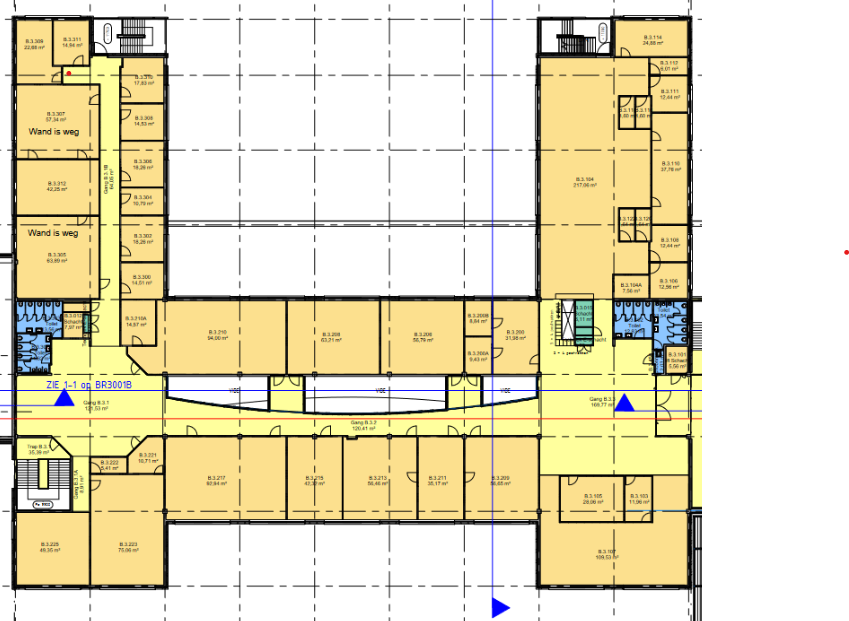
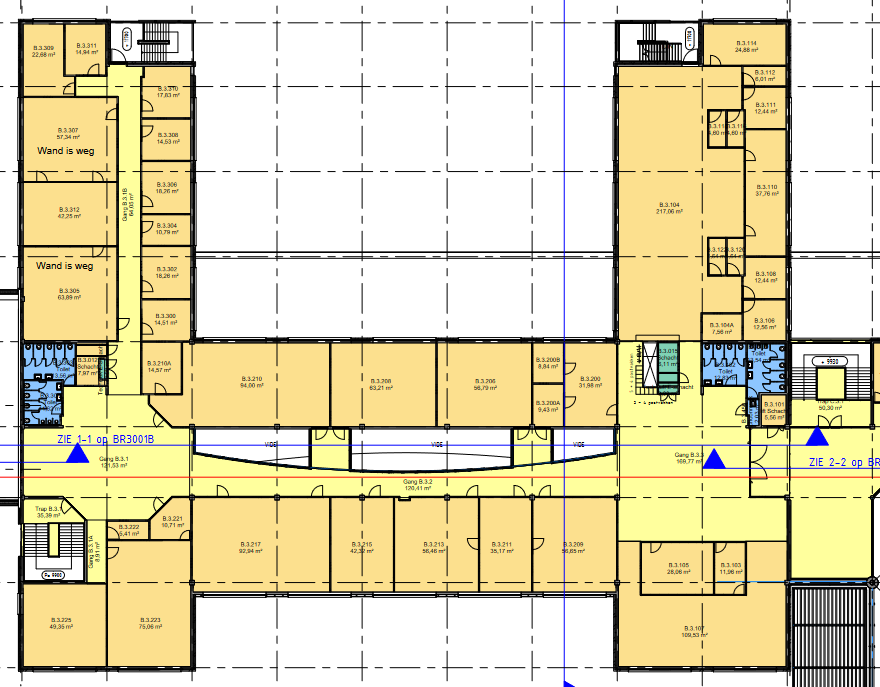
Added second floor

diff --git a/EventPlannerMAUI/MVVM/View/HomeNavigationPage.xaml b/EventPlannerMAUI/MVVM/View/HomeNavigationPage.xaml
@@ -1,11 +1,18 @@
 <?xml version="1.0" encoding="utf-8" ?>
 <ContentPage xmlns="http://schemas.microsoft.com/dotnet/2021/maui"
              xmlns:x="http://schemas.microsoft.com/winfx/2009/xaml"
-             x:Class="EventPlannerMAUI.MVVM.View.HomeNavigationPage">
+             x:Class="EventPlannerMAUI.MVVM.View.HomeNavigationPage"
+             Title="Home Page"
+             Shell.BackgroundColor="#ED1B34"
+             Shell.ForegroundColor="White"
+             Shell.TitleColor="White"
+             BackgroundColor="#D6CCC9"
+             NavigationPage.HasBackButton="False" >
 
     <StackLayout>
         <!-- Knop voor het toevoegen van een evenement -->
         <Button Text="Voeg evenement toe" Clicked="OnAddEventClicked" />
+        <Button Text="Show Map" Clicked="ShowMap" />
 
         <!-- Lijst met evenementen -->
         <ListView x:Name="eventListView" HasUnevenRows="True">

diff --git a/EventPlannerMAUI/MVVM/View/EventDetailMap.xaml b/EventPlannerMAUI/MVVM/View/EventDetailMap.xaml
@@ -16,6 +16,14 @@
     <VerticalStackLayout
         VerticalOptions="FillAndExpand" >
 
+        <GraphicsView 
+            x:Name="MapView"
+            HorizontalOptions="StartAndExpand"
+            WidthRequest="200"
+            HeightRequest="300"
+            Drawable="{StaticResource MyDrawable}" 
+            Scale="0.85"/>
+
         <StackLayout
             Orientation="Horizontal">
 
@@ -36,11 +44,6 @@
         <Button 
             Text="Calculate path..." 
             Clicked="OnRefresh" />
-
-        <GraphicsView 
-            x:Name="MapView"
-            HorizontalOptions="Fill"
-            Drawable="{StaticResource MyDrawable}" />
 
     </VerticalStackLayout>
     

diff --git a/EventPlannerMAUI/App.xaml b/EventPlannerMAUI/App.xaml
@@ -9,7 +9,6 @@
             <ResourceDictionary.MergedDictionaries>
                 <ResourceDictionary x:Name="appColors" Source="Resources/Styles/Colors.xaml" />
                 <ResourceDictionary x:Name="appStyles" Source="Resources/Styles/Styles.xaml" />
-
                 <material:StyleResource ColorsOverride="{x:Reference appColors}" BasedOn="{x:Reference appStyles}"/>
             </ResourceDictionary.MergedDictionaries>
         </ResourceDictionary>

diff --git a/EventPlannerMAUI/Drawables/MapPath.cs b/EventPlannerMAUI/Drawables/MapPath.cs
@@ -67,9 +67,10 @@ namespace EventPlannerMAUI.Drawables
 
         public void Draw(ICanvas canvas, RectF dirtyRect)
         {
-
+            
             Dictionary<string, Node> ComplexPath = new Dictionary<string, Node>();
 
+            // Floor 3
             ComplexPath["B3.309"] = new Node(0, 1.8f, 3.0f, "B3.309");
             ComplexPath["End B3.1B"] = new Node(1, 7.0f, 4.3f, "End B3.1B");
             ComplexPath["Start B3.1B"] = new Node(2, 7.0f, 19.0f, "Start B3.1B");
@@ -95,7 +96,7 @@ namespace EventPlannerMAUI.Drawables
             ComplexPath["B3.300"] = new Node(22, 9.2f, 18.7f, "B3.300");
             ComplexPath["B3.1A"] = new Node(23, 5.0f, 33.0f, "B3.1A");
             ComplexPath["B3.255"] = new Node(24, 3.0f, 37.0f, "B3.255");
-            ComplexPath["B3.223"] = new Node(25, 8.0f, 37.0f, "B3.223");
+            ComplexPath["B3.221"] = new Node(25, 8.0f, 37.0f, "B3.223");
             ComplexPath["B3.105"] = new Node(26, 40.5f, 34.0f, "B3.105");
             ComplexPath["B3.103"] = new Node(27, 43.8f, 34.0f, "B3.103");
             ComplexPath["B3.107"] = new Node(28, 42.0f, 37.8f, "B3.107");
@@ -114,20 +115,73 @@ namespace EventPlannerMAUI.Drawables
             ComplexPath["B3.200"] = new Node(41, 35.2f, 22.5f, "B3.200");
             ComplexPath["B3.200B"] = new Node(42, 32.7f, 21.5f, "B3.200B");
             ComplexPath["B3.200A"] = new Node(43, 32.7f, 23.8f, "B3.200A");
-            // Linker Trap 
-            // Rechter Trap
-            // Linker GevaarUitgang
-            // Rechter GevaarUitgang
+            ComplexPath["C3.1 Hall"] = new Node(44, 50.0f, 27.5f, "C3.1 Hall");
+            ComplexPath["C3.1 Stair"] = new Node(45, 50.0f, 22.5f, "C3.1 Stair");
+            ComplexPath["B3.1 Stair"] = new Node(46, 2.8f, 32.0f, "B3.1 Stair");
+            ComplexPath["B3.1B Exit"] = new Node(47, 7.0f, 2.0f, "B3.1B Exit");
+            ComplexPath["B3.104 Exit"] = new Node(48, 40.3f, 1.5f, "B3.104 Exit");
 
+            // Floor 2
+            ComplexPath["B2.309"] = new Node(49, 1.8f, 43.0f, "B2.309");
+            ComplexPath["End B2.1B"] = new Node(50, 7.0f, 44.3f, "End B2.1B");
+            ComplexPath["Start B2.1B"] = new Node(51, 7.0f, 59.0f, "Start B2.1B");
+            ComplexPath["B2.311"] = new Node(52, 4.2f, 42.5f, "B2.311");
+            ComplexPath["B2.305"] = new Node(53, 3.0f, 59.0f, "B2.305");
+            ComplexPath["B2.1"] = new Node(54, 7.0f, 68.0f, "B2.1");
+            ComplexPath["End B2.2"] = new Node(55, 19.0f, 68.8f, "End B2.2");
+            ComplexPath["Start B2.2"] = new Node(56, 31.6f, 68.8f, "Start B2.2");
+            ComplexPath["B2.3"] = new Node(57, 41.3f, 67.5f, "B2.3");
+            ComplexPath["B2.217"] = new Node(58, 15.0f, 72.5f, "B2.217");
+            ComplexPath["B2.210"] = new Node(59, 15.0f, 62.5f, "B2.210");
+            ComplexPath["B2.208"] = new Node(60, 22.5f, 62.5f, "B2.208");
+            ComplexPath["B2.215"] = new Node(61, 21.3f, 72.5f, "B2.215");
+            ComplexPath["B2.213"] = new Node(62, 25.6f, 72.5f, "B2.213");
+            ComplexPath["B2.206"] = new Node(63, 28.5f, 62.5f, "B2.206");
+            ComplexPath["B2.211"] = new Node(64, 29.8f, 72.5f, "B2.211");
+            ComplexPath["B2.209"] = new Node(65, 34.0f, 72.5f, "B2.209");
+            ComplexPath["B2.310"] = new Node(66, 9.2f, 44.8f, "B2.310");
+            ComplexPath["B2.308"] = new Node(67, 9.2f, 47.8f, "B2.308");
+            ComplexPath["B2.306"] = new Node(68, 9.2f, 50.8f, "B2.306");
+            ComplexPath["B2.304"] = new Node(69, 9.2f, 53.5f, "B2.304");
+            ComplexPath["B2.302"] = new Node(70, 9.2f, 56.0f, "B2.302");
+            ComplexPath["B2.300"] = new Node(71, 9.2f, 58.7f, "B2.300");
+            ComplexPath["B2.1A"] = new Node(72, 5.0f, 73.0f, "B2.1A");
+            ComplexPath["B2.255"] = new Node(73, 3.0f, 77.0f, "B2.255");
+            ComplexPath["B2.221"] = new Node(74, 8.0f, 77.0f, "B2.223");
+            ComplexPath["B2.105"] = new Node(75, 40.5f, 74.0f, "B2.105");
+            ComplexPath["B2.103"] = new Node(76, 43.8f, 74.0f, "B2.103");
+            ComplexPath["B2.107"] = new Node(77, 42.0f, 77.8f, "B2.107");
+            ComplexPath["B2.104"] = new Node(78, 40.3f, 52.5f, "B2.104");
+            ComplexPath["B2.114"] = new Node(79, 44.8f, 42.3f, "B2.114");
+            ComplexPath["B2.112"] = new Node(80, 45.8f, 44.1f, "B2.112");
+            ComplexPath["B2.116"] = new Node(81, 44.2f, 47.1f, "B2.116");
+            ComplexPath["B2.115"] = new Node(82, 42.9f, 47.1f, "B2.115");
+            ComplexPath["B2.110"] = new Node(83, 45.8f, 51.1f, "B2.110");
+            ComplexPath["B2.111"] = new Node(84, 45.8f, 46.2f, "B2.111");
+            ComplexPath["B2.122"] = new Node(85, 42.9f, 55.2f, "B2.122");
+            ComplexPath["B2.120"] = new Node(86, 44.2f, 55.2f, "B2.120");
+            ComplexPath["B2.108"] = new Node(87, 45.8f, 56.1f, "B2.108");
+            ComplexPath["B2.106"] = new Node(88, 45.8f, 59.1f, "B2.106");
+            ComplexPath["B2.104A"] = new Node(89, 43.1f, 59.1f, "B2.104A");
+            ComplexPath["B2.200"] = new Node(90, 35.2f, 62.5f, "B2.200");
+            ComplexPath["B2.200B"] = new Node(91, 32.7f, 61.5f, "B2.200B");
+            ComplexPath["B2.200A"] = new Node(92, 32.7f, 63.8f, "B2.200A");
+            ComplexPath["C2.1 Hall"] = new Node(93, 50.0f, 67.5f, "C2.1 Hall");
+            ComplexPath["C2.1 Stair"] = new Node(94, 50.0f, 62.5f, "C2.1 Stair");
+            ComplexPath["B2.1 Stair"] = new Node(95, 2.8f, 72.0f, "B2.1 Stair");
+            ComplexPath["B2.1B Exit"] = new Node(96, 7.0f, 42.0f, "B2.1B Exit");
+            ComplexPath["B2.104 Exit"] = new Node(97, 40.3f, 41.5f, "B2.104 Exit");
+
+            // Floor 3
             ComplexPath["B3.309"].Neighbours = new List<Node> { ComplexPath["End B3.1B"] };
-            ComplexPath["End B3.1B"].Neighbours = new List<Node> { ComplexPath["B3.309"], ComplexPath["Start B3.1B"], ComplexPath["B3.311"], ComplexPath["B3.310"], ComplexPath["B3.308"], ComplexPath["B3.306"] };
+            ComplexPath["End B3.1B"].Neighbours = new List<Node> { ComplexPath["B3.309"], ComplexPath["Start B3.1B"], ComplexPath["B3.311"], ComplexPath["B3.310"], ComplexPath["B3.308"], ComplexPath["B3.306"], ComplexPath["B3.1B Exit"] };
             ComplexPath["Start B3.1B"].Neighbours = new List<Node> { ComplexPath["End B3.1B"], ComplexPath["Start B3.1B"], ComplexPath["B3.305"], ComplexPath["B3.1"], ComplexPath["B3.304"], ComplexPath["B3.302"], ComplexPath["B3.300"] };
             ComplexPath["B3.311"].Neighbours = new List<Node> { ComplexPath["End B3.1B"] };
             ComplexPath["B3.305"].Neighbours = new List<Node> { ComplexPath["Start B3.1B"] };
-            ComplexPath["B3.1"].Neighbours = new List<Node> { ComplexPath["Start B3.1B"], ComplexPath["End B3.2"], ComplexPath["B3.1A"] };
+            ComplexPath["B3.1"].Neighbours = new List<Node> { ComplexPath["Start B3.1B"], ComplexPath["End B3.2"], ComplexPath["B3.1A"], ComplexPath["B3.1 Stair"] };
             ComplexPath["End B3.2"].Neighbours = new List<Node> { ComplexPath["B3.1"], ComplexPath["Start B3.2"], ComplexPath["B3.217"], ComplexPath["B3.210"], ComplexPath["B3.208"], ComplexPath["B3.215"] };
             ComplexPath["Start B3.2"].Neighbours = new List<Node> { ComplexPath["End B3.2"], ComplexPath["B3.3"], ComplexPath["B3.213"], ComplexPath["B3.206"], ComplexPath["B3.211"], ComplexPath["B3.209"] };
-            ComplexPath["B3.3"].Neighbours = new List<Node> { ComplexPath["Start B3.2"], ComplexPath["B3.105"], ComplexPath["B3.103"], ComplexPath["B3.107"], ComplexPath["B3.200"], ComplexPath["B3.104"] };
+            ComplexPath["B3.3"].Neighbours = new List<Node> { ComplexPath["Start B3.2"], ComplexPath["B3.105"], ComplexPath["B3.103"], ComplexPath["B3.107"], ComplexPath["B3.200"], ComplexPath["B3.104"], ComplexPath["C3.1 Hall"] };
             ComplexPath["B3.217"].Neighbours = new List<Node> { ComplexPath["End B3.2"] };
             ComplexPath["B3.210"].Neighbours = new List<Node> { ComplexPath["End B3.2"] };
             ComplexPath["B3.208"].Neighbours = new List<Node> { ComplexPath["End B3.2"] };
@@ -142,13 +196,13 @@ namespace EventPlannerMAUI.Drawables
             ComplexPath["B3.304"].Neighbours = new List<Node> { ComplexPath["Start B3.1B"] };
             ComplexPath["B3.302"].Neighbours = new List<Node> { ComplexPath["Start B3.1B"] };
             ComplexPath["B3.300"].Neighbours = new List<Node> { ComplexPath["Start B3.1B"] };
-            ComplexPath["B3.1A"].Neighbours = new List<Node> { ComplexPath["B3.1"], ComplexPath["B3.255"], ComplexPath["B3.223"] };
+            ComplexPath["B3.1A"].Neighbours = new List<Node> { ComplexPath["B3.1"], ComplexPath["B3.255"], ComplexPath["B3.221"] };
             ComplexPath["B3.255"].Neighbours = new List<Node> { ComplexPath["B3.1A"] };
-            ComplexPath["B3.223"].Neighbours = new List<Node> { ComplexPath["B3.1A"] };
+            ComplexPath["B3.221"].Neighbours = new List<Node> { ComplexPath["B3.1A"] };
             ComplexPath["B3.105"].Neighbours = new List<Node> { ComplexPath["B3.3"] };
             ComplexPath["B3.103"].Neighbours = new List<Node> { ComplexPath["B3.3"] };
             ComplexPath["B3.107"].Neighbours = new List<Node> { ComplexPath["B3.3"] };
-            ComplexPath["B3.104"].Neighbours = new List<Node> { ComplexPath["B3.3"], ComplexPath["B3.114"], ComplexPath["B3.112"], ComplexPath["B3.116"], ComplexPath["B3.115"], ComplexPath["B3.110"], ComplexPath["B3.111"], ComplexPath["B3.122"], ComplexPath["B3.120"], ComplexPath["B3.108"], ComplexPath["B3.106"], ComplexPath["B3.104A"] };
+            ComplexPath["B3.104"].Neighbours = new List<Node> { ComplexPath["B3.3"], ComplexPath["B3.114"], ComplexPath["B3.112"], ComplexPath["B3.116"], ComplexPath["B3.115"], ComplexPath["B3.110"], ComplexPath["B3.111"], ComplexPath["B3.122"], ComplexPath["B3.120"], ComplexPath["B3.108"], ComplexPath["B3.106"], ComplexPath["B3.104A"], ComplexPath["B3.104 Exit"] };
             ComplexPath["B3.114"].Neighbours = new List<Node> { ComplexPath["B3.104"] };
             ComplexPath["B3.112"].Neighbours = new List<Node> { ComplexPath["B3.104"] };
             ComplexPath["B3.116"].Neighbours = new List<Node> { ComplexPath["B3.104"] };
@@ -163,25 +217,86 @@ namespace EventPlannerMAUI.Drawables
             ComplexPath["B3.200"].Neighbours = new List<Node> { ComplexPath["B3.3"], ComplexPath["B3.200B"], ComplexPath["B3.200A"] };
             ComplexPath["B3.200B"].Neighbours = new List<Node> { ComplexPath["B3.200"] };
             ComplexPath["B3.200A"].Neighbours = new List<Node> { ComplexPath["B3.200"] };
+            ComplexPath["C3.1 Hall"].Neighbours = new List<Node> { ComplexPath["B3.3"], ComplexPath["C3.1 Stair"] };
+            ComplexPath["C3.1 Stair"].Neighbours = new List<Node> { ComplexPath["C3.1 Hall"], ComplexPath["C2.1 Stair"] };
+            ComplexPath["B3.1 Stair"].Neighbours = new List<Node> { ComplexPath["B3.1"], ComplexPath["B2.1 Stair"] };
+            ComplexPath["B3.1B Exit"].Neighbours = new List<Node> { ComplexPath["End B3.1B"] };
+            ComplexPath["B3.104 Exit"].Neighbours = new List<Node> { ComplexPath["B3.104"] };
 
+            // Floor 2
+            ComplexPath["B2.309"].Neighbours = new List<Node> { ComplexPath["End B2.1B"] };
+            ComplexPath["End B2.1B"].Neighbours = new List<Node> { ComplexPath["B2.309"], ComplexPath["Start B2.1B"], ComplexPath["B2.311"], ComplexPath["B2.310"], ComplexPath["B2.308"], ComplexPath["B2.306"], ComplexPath["B2.1B Exit"] };
+            ComplexPath["Start B2.1B"].Neighbours = new List<Node> { ComplexPath["End B2.1B"], ComplexPath["Start B2.1B"], ComplexPath["B2.305"], ComplexPath["B2.1"], ComplexPath["B2.304"], ComplexPath["B2.302"], ComplexPath["B2.300"] };
+            ComplexPath["B2.311"].Neighbours = new List<Node> { ComplexPath["End B2.1B"] };
+            ComplexPath["B2.305"].Neighbours = new List<Node> { ComplexPath["Start B2.1B"] };
+            ComplexPath["B2.1"].Neighbours = new List<Node> { ComplexPath["Start B2.1B"], ComplexPath["End B2.2"], ComplexPath["B2.1A"], ComplexPath["B2.1 Stair"] };
+            ComplexPath["End B2.2"].Neighbours = new List<Node> { ComplexPath["B2.1"], ComplexPath["Start B2.2"], ComplexPath["B2.217"], ComplexPath["B2.210"], ComplexPath["B2.208"], ComplexPath["B2.215"] };
+            ComplexPath["Start B2.2"].Neighbours = new List<Node> { ComplexPath["End B2.2"], ComplexPath["B2.3"], ComplexPath["B2.213"], ComplexPath["B2.206"], ComplexPath["B2.211"], ComplexPath["B2.209"] };
+            ComplexPath["B2.3"].Neighbours = new List<Node> { ComplexPath["Start B2.2"], ComplexPath["B2.105"], ComplexPath["B2.103"], ComplexPath["B2.107"], ComplexPath["B2.200"], ComplexPath["B2.104"], ComplexPath["C2.1 Hall"] };
+            ComplexPath["B2.217"].Neighbours = new List<Node> { ComplexPath["End B2.2"] };
+            ComplexPath["B2.210"].Neighbours = new List<Node> { ComplexPath["End B2.2"] };
+            ComplexPath["B2.208"].Neighbours = new List<Node> { ComplexPath["End B2.2"] };
+            ComplexPath["B2.215"].Neighbours = new List<Node> { ComplexPath["End B2.2"] };
+            ComplexPath["B2.213"].Neighbours = new List<Node> { ComplexPath["Start B2.2"] };
+            ComplexPath["B2.206"].Neighbours = new List<Node> { ComplexPath["Start B2.2"] };
+            ComplexPath["B2.211"].Neighbours = new List<Node> { ComplexPath["Start B2.2"] };
+            ComplexPath["B2.209"].Neighbours = new List<Node> { ComplexPath["Start B2.2"] };
+            ComplexPath["B2.310"].Neighbours = new List<Node> { ComplexPath["End B2.1B"] };
+            ComplexPath["B2.308"].Neighbours = new List<Node> { ComplexPath["End B2.1B"] };
+            ComplexPath["B2.306"].Neighbours = new List<Node> { ComplexPath["End B2.1B"] };
+            ComplexPath["B2.304"].Neighbours = new List<Node> { ComplexPath["Start B2.1B"] };
+            ComplexPath["B2.302"].Neighbours = new List<Node> { ComplexPath["Start B2.1B"] };
+            ComplexPath["B2.300"].Neighbours = new List<Node> { ComplexPath["Start B2.1B"] };
+            ComplexPath["B2.1A"].Neighbours = new List<Node> { ComplexPath["B2.1"], ComplexPath["B2.255"], ComplexPath["B2.221"] };
+            ComplexPath["B2.255"].Neighbours = new List<Node> { ComplexPath["B2.1A"] };
+            ComplexPath["B2.221"].Neighbours = new List<Node> { ComplexPath["B2.1A"] };
+            ComplexPath["B2.105"].Neighbours = new List<Node> { ComplexPath["B2.3"] };
+            ComplexPath["B2.103"].Neighbours = new List<Node> { ComplexPath["B2.3"] };
+            ComplexPath["B2.107"].Neighbours = new List<Node> { ComplexPath["B2.3"] };
+            ComplexPath["B2.104"].Neighbours = new List<Node> { ComplexPath["B2.3"], ComplexPath["B2.114"], ComplexPath["B2.112"], ComplexPath["B2.116"], ComplexPath["B2.115"], ComplexPath["B2.110"], ComplexPath["B2.111"], ComplexPath["B2.122"], ComplexPath["B2.120"], ComplexPath["B2.108"], ComplexPath["B2.106"], ComplexPath["B2.104A"], ComplexPath["B2.104 Exit"] };
+            ComplexPath["B2.114"].Neighbours = new List<Node> { ComplexPath["B2.104"] };
+            ComplexPath["B2.112"].Neighbours = new List<Node> { ComplexPath["B2.104"] };
+            ComplexPath["B2.116"].Neighbours = new List<Node> { ComplexPath["B2.104"] };
+            ComplexPath["B2.115"].Neighbours = new List<Node> { ComplexPath["B2.104"] };
+            ComplexPath["B2.110"].Neighbours = new List<Node> { ComplexPath["B2.104"] };
+            ComplexPath["B2.111"].Neighbours = new List<Node> { ComplexPath["B2.104"] };
+            ComplexPath["B2.122"].Neighbours = new List<Node> { ComplexPath["B2.104"] };
+            ComplexPath["B2.120"].Neighbours = new List<Node> { ComplexPath["B2.104"] };
+            ComplexPath["B2.108"].Neighbours = new List<Node> { ComplexPath["B2.104"] };
+            ComplexPath["B2.106"].Neighbours = new List<Node> { ComplexPath["B2.104"] };
+            ComplexPath["B2.104A"].Neighbours = new List<Node> { ComplexPath["B2.104"] };
+            ComplexPath["B2.200"].Neighbours = new List<Node> { ComplexPath["B2.3"], ComplexPath["B2.200B"], ComplexPath["B2.200A"] };
+            ComplexPath["B2.200B"].Neighbours = new List<Node> { ComplexPath["B2.200"] };
+            ComplexPath["B2.200A"].Neighbours = new List<Node> { ComplexPath["B2.200"] };
+            ComplexPath["C2.1 Hall"].Neighbours = new List<Node> { ComplexPath["B2.3"], ComplexPath["C2.1 Stair"] };
+            ComplexPath["C2.1 Stair"].Neighbours = new List<Node> { ComplexPath["C2.1 Hall"], ComplexPath["C3.1 Stair"] };
+            ComplexPath["B2.1 Stair"].Neighbours = new List<Node> { ComplexPath["B2.1"], ComplexPath["B3.1 Stair"] };
+            ComplexPath["B2.1B Exit"].Neighbours = new List<Node> { ComplexPath["End B2.1B"] };
+            ComplexPath["B2.104 Exit"].Neighbours = new List<Node> { ComplexPath["B2.104"] };
+
+            // Floor 3 Image
             IImage image;
             using (Stream? stream = GetType().GetTypeInfo().Assembly.GetManifestResourceStream("EventPlannerMAUI.Resources.Images.floor3.png"))
                 image = PlatformImage.FromStream(stream);
 
-            canvas.DrawImage(image, 0, 0, image.Width / 1.8f, image.Height / 1.8f);
+            canvas.DrawImage(image, 0, 0, image.Width / 2.05f, image.Height / 2.05f);
+
+            // Floor 2 Image
 
             canvas.FillColor = Colors.Red;
             canvas.StrokeColor = Colors.Red;
-            canvas.StrokeSize = 3;
 
             int ScaleFactor = 8;
+            /*
             if (StartPos != null && EndPos != null)
             {
+
 
                 List<Node> FastestPath = AStarAlgorithm(ComplexPath[StartPos], ComplexPath[EndPos]);
 
                 canvas.FillColor = Colors.Green;
                 canvas.StrokeColor = Colors.Green;
+                canvas.StrokeSize = 3;
 
                 for (int i = 0; i < FastestPath.Count(); i++)
                 {
@@ -193,11 +308,49 @@ namespace EventPlannerMAUI.Drawables
 
                 }
 
+            }*/
+
+            if (StartPos != null)
+            {
+
+                List<Node> FastestPath = AStarAlgorithm(ComplexPath[StartPos], ComplexPath["C3.1 Stair"]);
+                List<Node> OtherPath = AStarAlgorithm(ComplexPath[StartPos], ComplexPath["B3.1 Stair"]);
+
+                if (FastestPath[0].GCost > OtherPath[0].GCost)
+                    FastestPath = OtherPath;
+
+                OtherPath = AStarAlgorithm(ComplexPath[StartPos], ComplexPath["B3.1B Exit"]);
+                if (FastestPath[0].GCost > OtherPath[0].GCost)
+                    FastestPath = OtherPath;
+
+                OtherPath = AStarAlgorithm(ComplexPath[StartPos], ComplexPath["B3.104 Exit"]);
+                if (FastestPath[0].GCost > OtherPath[0].GCost)
+                    FastestPath = OtherPath;
+
+                canvas.FillColor = Colors.Navy;
+                canvas.StrokeColor = Colors.Navy;
+                canvas.StrokeSize = 3;
+
+                for (int i = 0; i < FastestPath.Count(); i++)
+                {
+
+                    canvas.FillCircle((FastestPath[i].X * ScaleFactor) + 5, (FastestPath[i].Y * ScaleFactor) + 5, 5);
+
+                    if (i > 0)
+                        canvas.DrawLine(FastestPath[i].X * ScaleFactor + 5, FastestPath[i].Y * ScaleFactor + 5, FastestPath[i - 1].X * ScaleFactor + 5, FastestPath[i - 1].Y * ScaleFactor + 5);
+
+                }
+
+                canvas.FillCircle((FastestPath[FastestPath.Count() - 1].X * ScaleFactor) + 5, (FastestPath[FastestPath.Count() - 1].Y * ScaleFactor) + 5, 6);
+
+                canvas.FillColor = Colors.LightGreen;
+                canvas.FillCircle((FastestPath[FastestPath.Count() - 1].X * ScaleFactor) + 5, (FastestPath[FastestPath.Count() - 1].Y * ScaleFactor) + 5, 5);
+
             }
 
         }
 
-        public List<Node> AStarAlgorithm(Node startNode, Node endNode)
+        public List<Node> AStarAlgorithm(Node startNode, Node endNode, bool isHandicapped = false)
         {
 
             List<Node> openList = new List<Node>();

diff --git a/EventPlannerMAUI/MVVM/View/HomeNavigationPage.xaml.cs b/EventPlannerMAUI/MVVM/View/HomeNavigationPage.xaml.cs
@@ -19,7 +19,7 @@ namespace EventPlannerMAUI.MVVM.View
             // Voeg wat dummy-evenementen toe voor testdoeleinden
             events.Add(new Event { Title = "Evenement 1 (Afbeeldingsdetectie)", Date = "1 januari 2024", Time = "10:00-11:00", Location = "B.3.206", Description = "In dit project wordt gedomstreerd hoe je iemand kan herkennen in een afbeelding" });
             events.Add(new Event { Title = "Evenement 2 (Nummerherkenning)", Date = "1 januari 2024", Time = "11:00-12:00", Location = "B.3.217", Description = "Dit is evenement 2." });
-            events.Add(new Event { Title = "Pauze", Date = "1 januari 2024", Time = "12:00-13:00", Location = "Kantine", Description = "Algemene pauze voor bezoekers en sprekers"});
+            events.Add(new Event { Title = "Pauze", Date = "1 januari 2024", Time = "12:00-13:00", Location = "Kantine", Description = "Algemene pauze voor bezoekers en sprekers" });
             events.Add(new Event { Title = "Evenement 3 (Covid-19 en Data science )", Date = "1 januari 2024", Time = "13:00-14:00", Location = "B.3.217", Description = "Dit is evenement 3." });
             events.Add(new Event { Title = "Evenement 4 (Flesdetectie)", Date = "1 januari 2024", Time = "14:00-15:00", Location = "B.3.306", Description = "Dit is evenement 4." });
 
@@ -34,6 +34,14 @@ namespace EventPlannerMAUI.MVVM.View
             // bijvoorbeeld door een nieuw venster te openen of een nieuw scherm weer te geven.
             // Je zou dan de gegevens van het nieuwe evenement aan de 'events' verzameling toevoegen.
         }
+
+        private async void ShowMap(object sender, EventArgs e)
+        {
+
+            await Navigation.PushAsync(new EventDetailMap());
+
+        }
+
     }
 
     // Een eenvoudige klasse om evenementgegevens bij te houden
